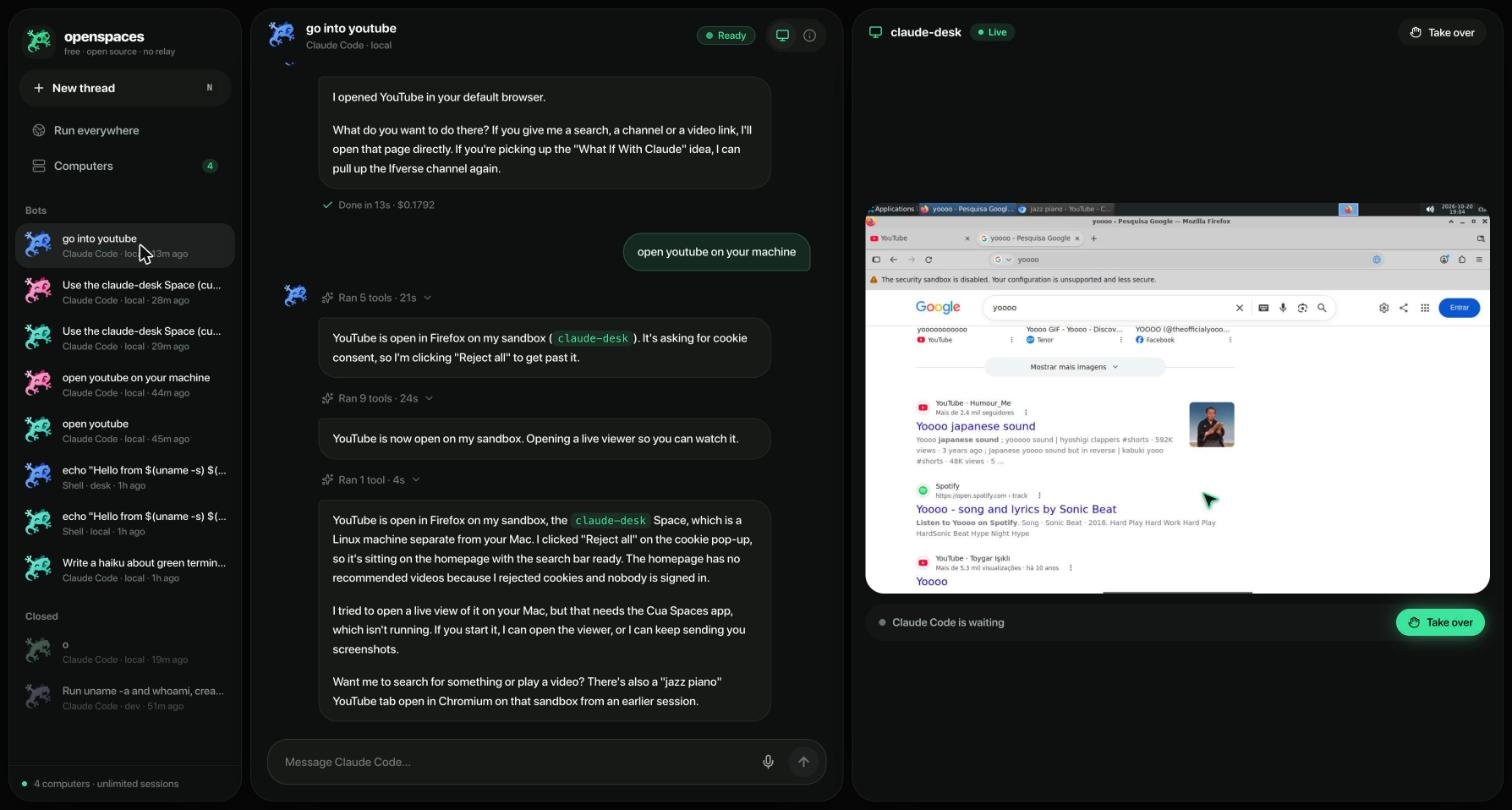
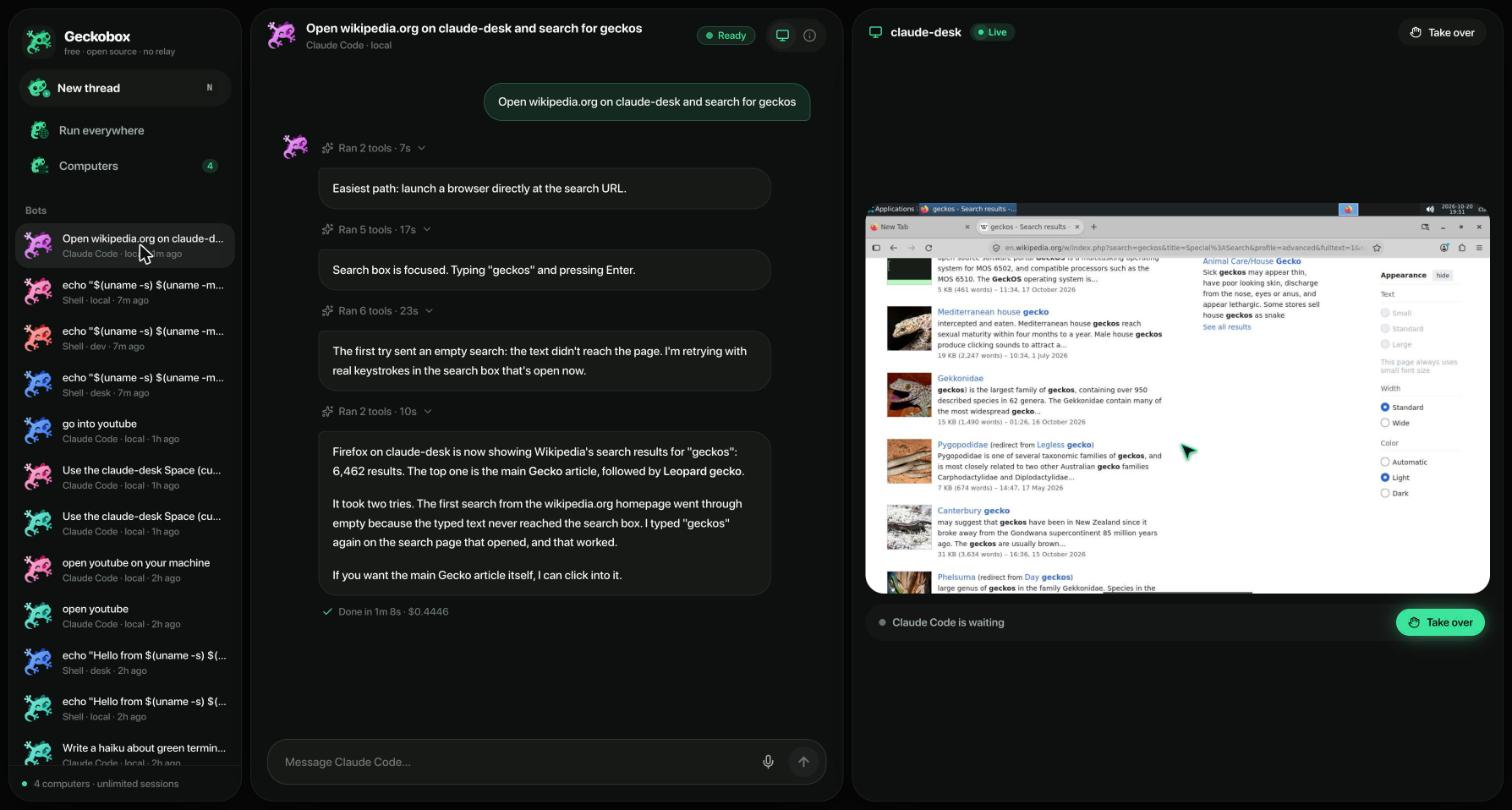
docs: GIFs of the current app; fix Shift+Esc in take-over
- README quick tour and tutorial show GIFs of starting a task, an agent
  searching Wikipedia live on its computer, and taking over (scrolling)
- fresh hero/thread screenshot of the gecko UI
- Shift+Esc now leaves take-over (the viewer swallowed its own exit key)

diff --git a/ui/src/components/LiveScreen.tsx b/ui/src/components/LiveScreen.tsx
@@ -167,9 +167,9 @@ export function LiveScreen({
   const ripple = (x: number, y: number) => setMine((p) => [...p.slice(-4), { key: `${Date.now()}`, x, y }])
 
   const onKey = (e: KeyboardEvent) => {
-    // Every key belongs to the remote computer while you have control: never to app shortcuts.
-    e.stopPropagation()
+    // Shift+Esc leaves take-over, so let it reach the viewer; every other key belongs to the remote computer.
     if (e.key === "Escape" && e.shiftKey) return
+    e.stopPropagation()
     const key = keyFor(e)
     e.preventDefault()
     if (key) {

diff --git a/docs/TUTORIAL.md b/docs/TUTORIAL.md
@@ -23,6 +23,8 @@ The command prints a private link (`http://127.0.0.1:4600/#token=…`) and opens
 
 ![The new-thread screen](tutorial/01-new-thread.jpg)
 
+![Picking the computer, agent and model](tutorial/start-a-task.gif)
+
 ## 3. Give an agent something to do
 
 1. Type a task in the box, or click one of the ideas under it.
@@ -83,6 +85,8 @@ Every thread is a chat, with the agent's computer live beside it.
 
 ![A thread with the live screen](tutorial/03-thread-live-screen.jpg)
 
+![The agent working live](tutorial/agent-live.gif)
+
 - **Ran 5 tools · 21s** rows expand to show each tool call and what it touched.
 - The **gecko** shows the bot's state. It looks around when idle, sparkles and scurries while working, smiles when done, gets dizzy when stuck, and falls asleep when closed.
 - The **live screen** follows whichever computer the agent is actually using. The green-rimmed pointer is the agent's, and a ripple shows each click.
@@ -93,7 +97,7 @@ Every thread is a chat, with the agent's computer live beside it.
 
 Click the screen, or **Take over**, to open the full viewer.
 
-![Take-over mode](tutorial/04-take-over.jpg)
+![Take-over mode](tutorial/take-over.gif)
 
 Click, scroll and type straight into the computer. Taking over pauses a working agent, so you don't fight it for the mouse.
 

diff --git a/README.md b/README.md
@@ -19,7 +19,7 @@ Cua meters its relay. openspaces has no relay: it reaches your computers directl
 
 **1. Say what to do, pick the computer, agent and model.**
 
-![New thread](docs/tutorial/01-new-thread.jpg)
+![Starting a task: pick the computer, agent and model](docs/tutorial/start-a-task.gif)
 
 **2. Add computers: sandboxes on your Mac in ~20 s, or any machine over SSH, Docker or Cua.**
 
@@ -27,11 +27,11 @@ Cua meters its relay. openspaces has no relay: it reaches your computers directl
 
 **3. Watch the agent work live, next to the chat.**
 
-![Thread with live screen](docs/tutorial/03-thread-live-screen.jpg)
+![An agent searching Wikipedia on its own computer, live](docs/tutorial/agent-live.gif)
 
 **4. Take over anytime: click, scroll and type into its computer, or record it.**
 
-![Take over](docs/tutorial/04-take-over.jpg)
+![Taking over and scrolling the agent's browser](docs/tutorial/take-over.gif)
 
 **5. Run one job on every computer at once.**
 
